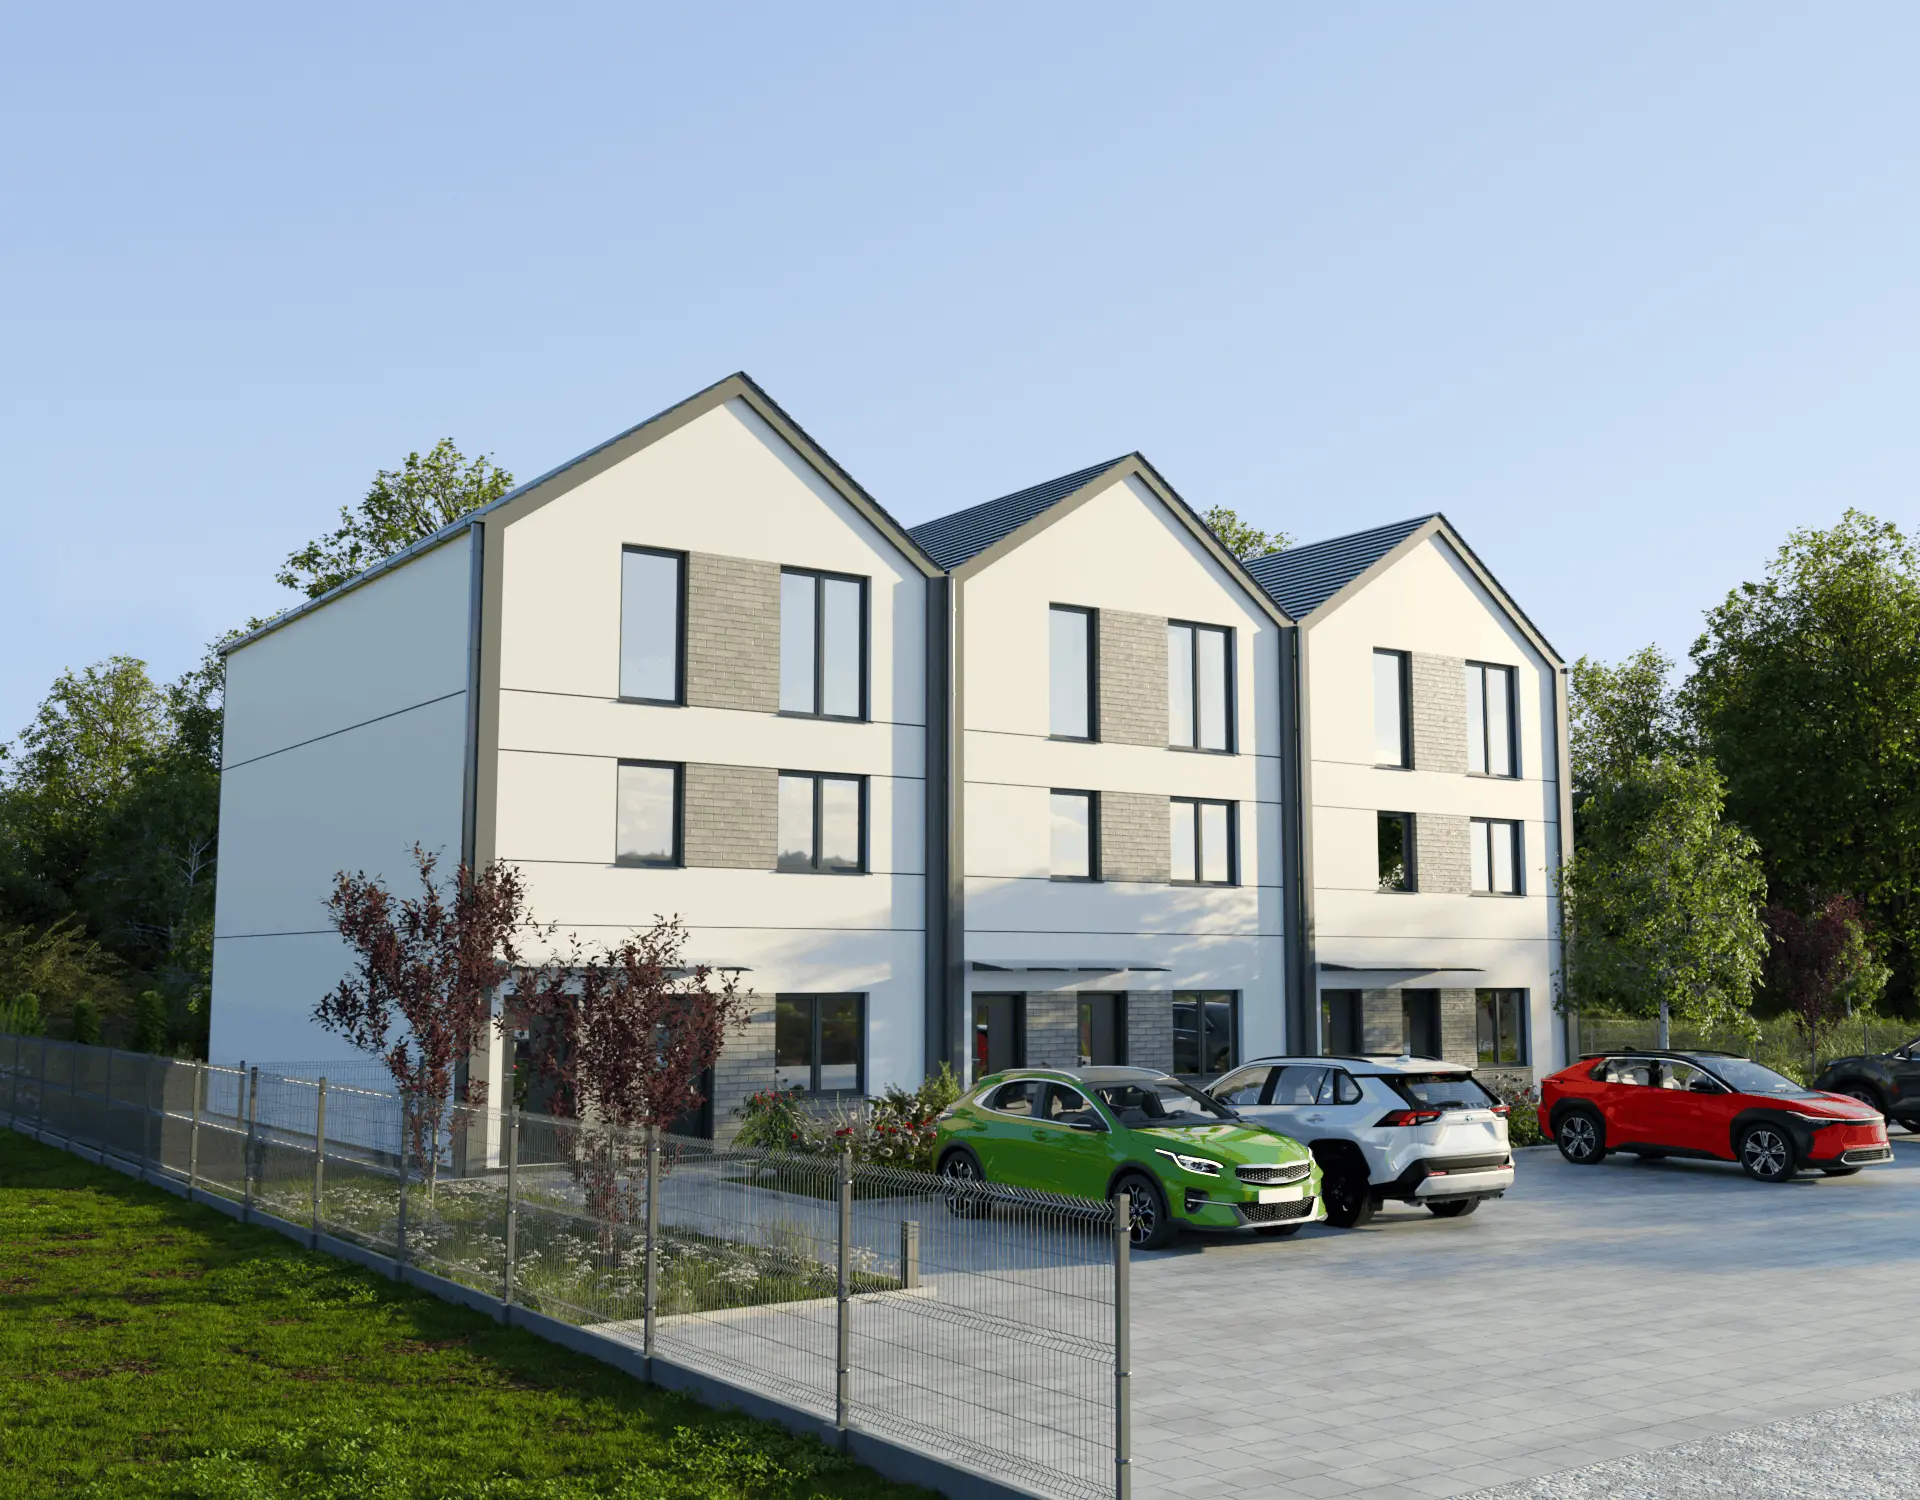
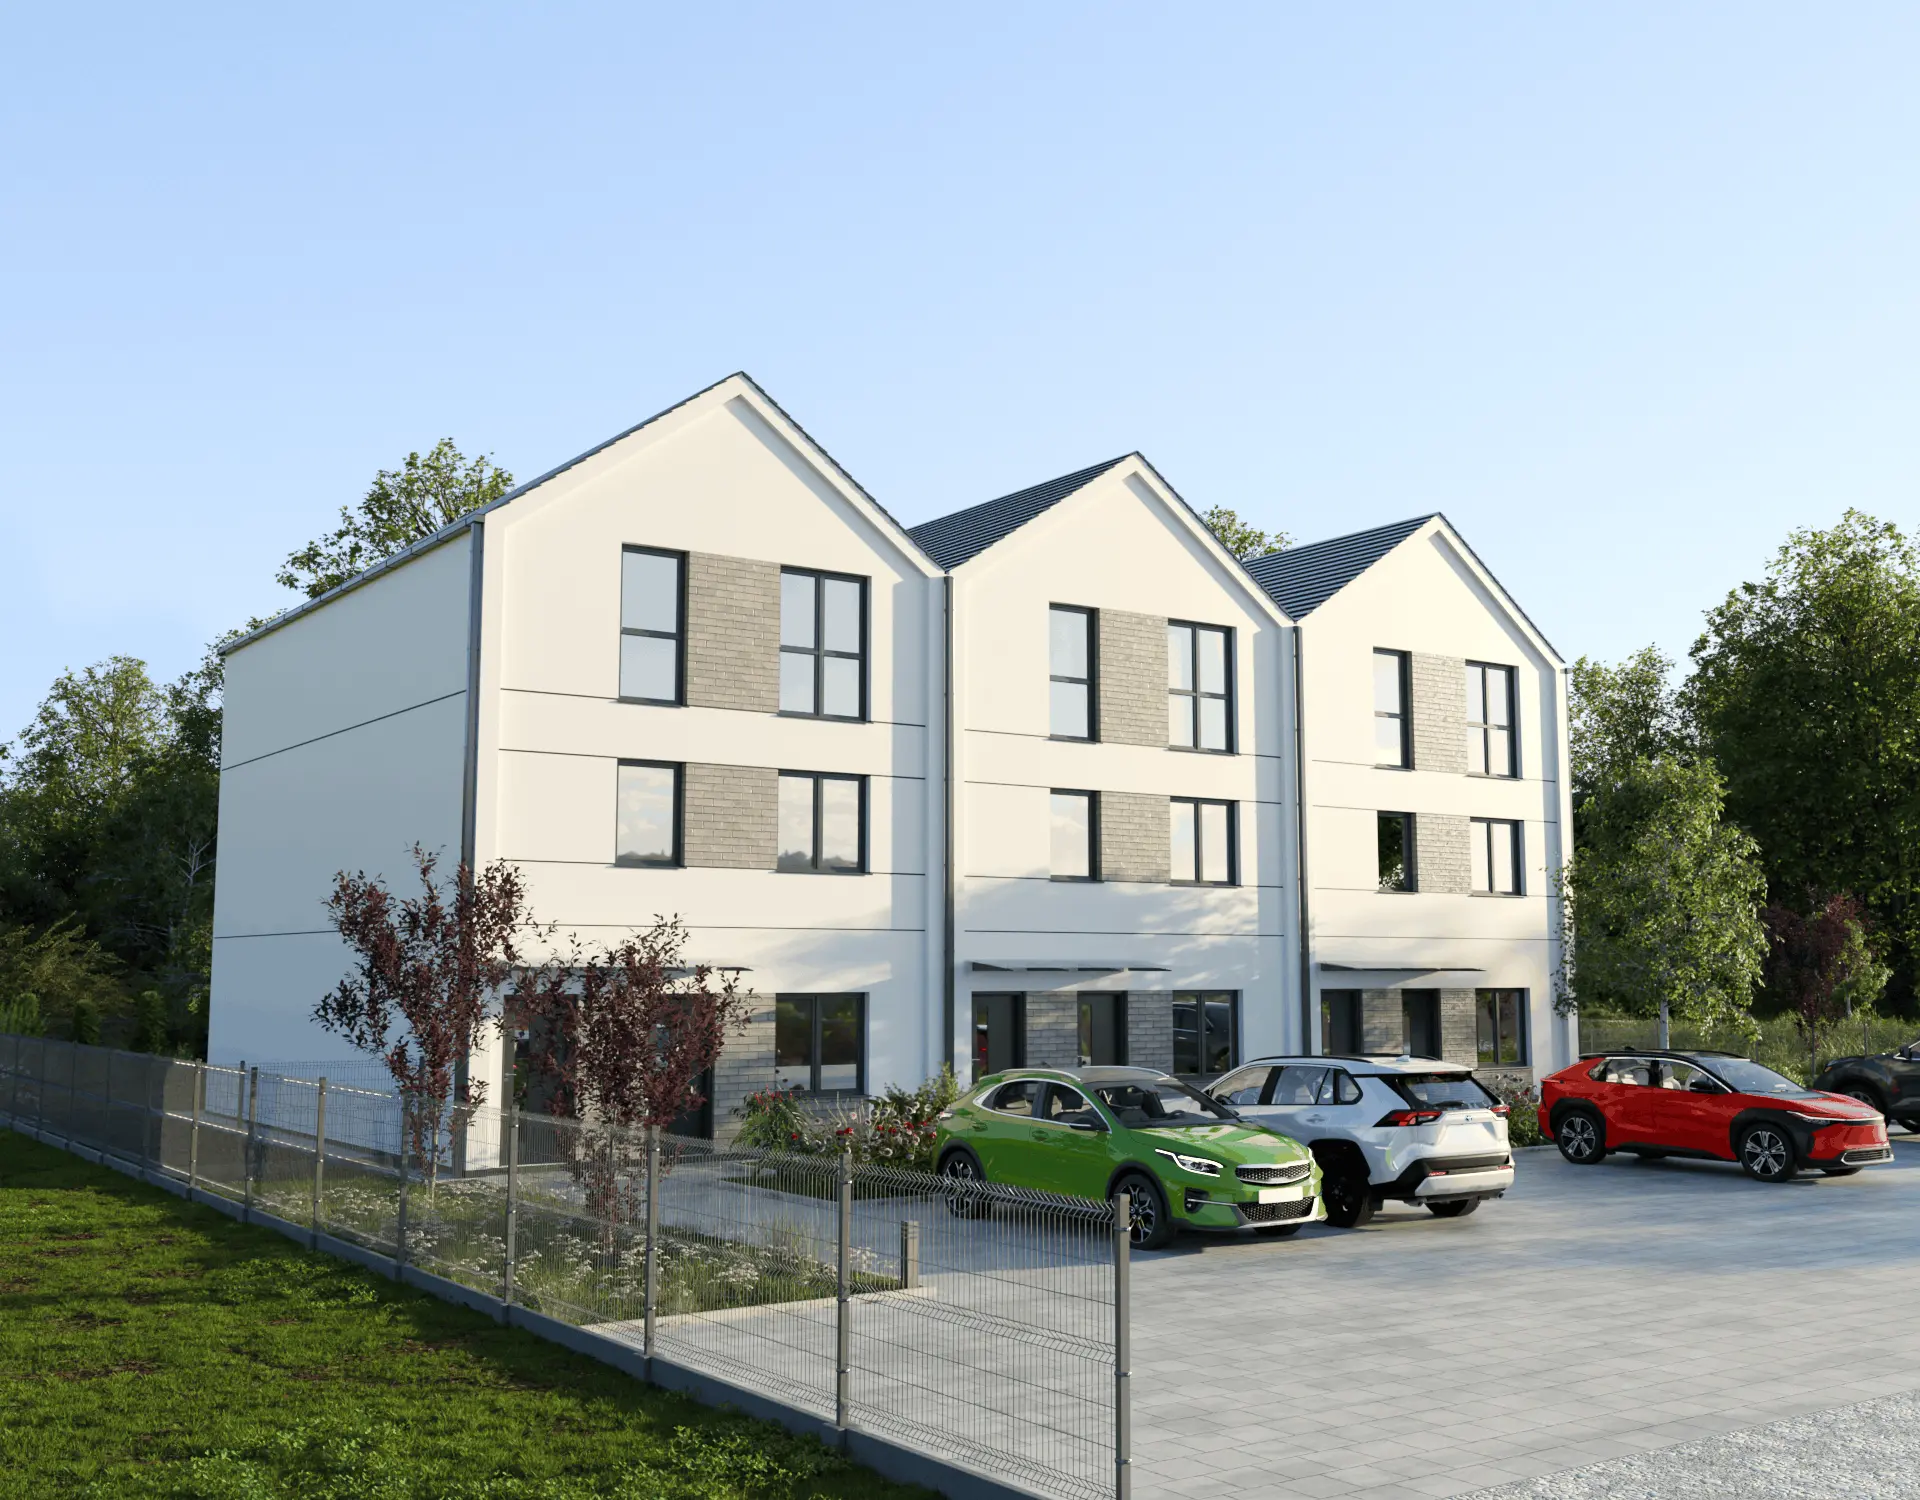
feat: update house points and status, and replace image assets

diff --git a/app/components/sections/HousesPage.tsx b/app/components/sections/HousesPage.tsx
@@ -19,16 +19,20 @@ const houses = [
     src: "/Asnyka_wnetrze_parter.png",
     src2: "/Asnyka_wnetrze_pietro_z_dolem.png",
     points: [
-      [36.4, 59.3],
-      [44, 61],
-      [44.1, 70.5],
-      [37, 68],
+      [39, 97],
+      [27, 86],
+      [26.8, 79],
+      [32, 83],
+      [32, 75],
+      [38.2, 79],
+      [52, 75.5],
+      [52.5, 92],
     ] as [number, number][],
     areaPolygonLabel: [
-      [36.4, 59.3],
-      [44, 61],
-      [44.1, 70.5],
-      [37, 68],
+      [39, 97],
+      [38.2, 79],
+      [52, 75.5],
+      [52.5, 92],
     ] as [number, number][],
   },
   {
@@ -43,18 +47,22 @@ const houses = [
     src: "/Asnyka_wnetrze_pietro_z_gora.png",
     src2: "/Asnyka_wnetrze_poddasze.png",
     points: [
-      [36.2, 55.5],
-      [40, 52],
-      [44, 57],
-      [44, 61],
-      [36.4, 59.3],
+      [26.8, 79],
+      [32, 83],
+      [32, 75],
+      [38.2, 79],
+      [52, 75.5],
+      [52, 69],
+      [45.7, 63.5],
+      [38.2, 73],
+      [26.5, 66],
     ] as [number, number][],
     areaPolygonLabel: [
-      [36.2, 55.5],
-      [40, 52],
-      [44, 57],
-      [44, 61],
-      [36.4, 59.3],
+      [38.2, 79],
+      [52, 75.5],
+      [52, 69],
+      [45.7, 63.5],
+      [38.2, 73],
     ] as [number, number][],
   },
   {
@@ -69,16 +77,16 @@ const houses = [
     src: "/Asnyka_wnetrze_parter.png",
     src2: "/Asnyka_wnetrze_pietro_z_dolem.png",
     points: [
-      [44, 61],
-      [52, 63],
-      [52, 73.5],
-      [44.1, 70.5],
+      [52, 75.5],
+      [52.5, 92],
+      [64, 87.5],
+      [64, 72],
     ] as [number, number][],
     areaPolygonLabel: [
-      [44, 61],
-      [52, 63],
-      [52, 73.5],
-      [44.1, 70.5],
+      [52, 75.5],
+      [52.5, 92],
+      [64, 87.5],
+      [64, 72],
     ] as [number, number][],
   },
   {
@@ -93,18 +101,18 @@ const houses = [
     src: "/Asnyka_wnetrze_pietro_z_gora.png",
     src2: "/Asnyka_wnetrze_poddasze.png",
     points: [
-      [44, 57],
-      [48, 53.9],
-      [52, 59],
-      [52, 63],
-      [44, 61],
+      [52, 69],
+      [52, 75.5],
+      [64, 72],
+      [64, 66],
+      [58.5, 60.5],
     ] as [number, number][],
     areaPolygonLabel: [
-      [44, 57],
-      [48, 53.9],
-      [52, 59],
-      [52, 63],
-      [44, 61],
+      [52, 69],
+      [52, 75.5],
+      [64, 72],
+      [64, 66],
+      [58.5, 60.5],
     ] as [number, number][],
   },
   {
@@ -119,25 +127,21 @@ const houses = [
     src: "/Asnyka_wnetrze_parter.png",
     src2: "/Asnyka_wnetrze_pietro_z_dolem.png",
     points: [
-      [52, 63],
-      [61.3, 65.5],
-      [64.5, 62.2],
-      [64.5, 66.7],
-      [67.5, 63.3],
-      [67.4, 67.6],
-      [61.3, 76.5],
-      [52, 73.5],
+      [64, 72],
+      [64, 87.5],
+      [74, 83.2],
+      [74, 68.9],
     ] as [number, number][],
     areaPolygonLabel: [
-      [52, 63],
-      [61.3, 65.5],
-      [61.3, 76.5],
-      [52, 73.5],
+      [64, 72],
+      [64, 87.5],
+      [74, 83.2],
+      [74, 68.9],
     ] as [number, number][],
   },
   {
     id: "3b",
-    status: "Dostępny" as const,
+    status: "Sprzedany" as const,
     statusColor: "text-green-mid border-green-mid",
     name: "Mieszkanie numer 3b",
     area: "96,20 m²",
@@ -147,22 +151,18 @@ const houses = [
     src: "/Asnyka_wnetrze_pietro_z_gora.png",
     src2: "/Asnyka_wnetrze_poddasze.png",
     points: [
-      [52, 59],
-      [56.9, 55.6],
-      [61.3, 61.5],
-      [67.6, 55.5],
-      [67.5, 63.3],
-      [64.5, 66.7],
-      [64.5, 62.2],
-      [61.3, 65.5],
-      [52, 63],
+      [64, 72],
+      [74, 68.9],
+      [74, 63.3],
+      [69.5, 58],
+      [64, 66],
     ] as [number, number][],
     areaPolygonLabel: [
-      [52, 59],
-      [56.9, 55.6],
-      [61.3, 61.5],
-      [61.3, 65.5],
-      [52, 63],
+      [64, 72],
+      [74, 68.9],
+      [74, 63.3],
+      [69.5, 58],
+      [64, 66],
     ] as [number, number][],
   },
 ];
